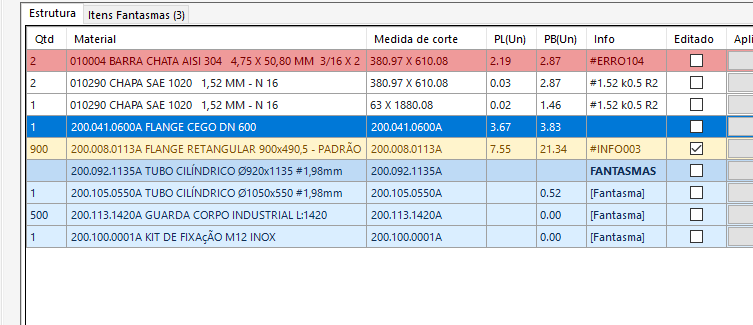
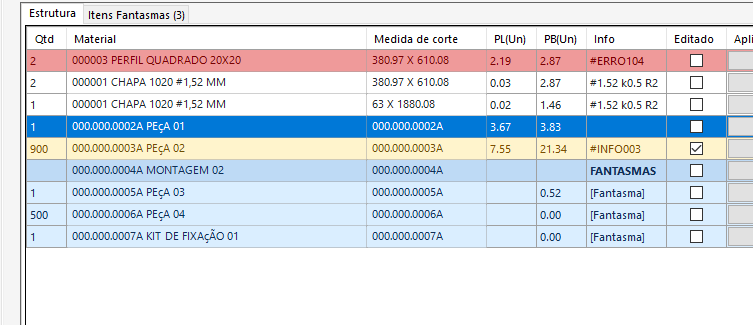
Substitui codigos e denominacoes por valores genericos nas imagens e tabelas

diff --git a/Apresentacao_DWM_Integrador.html b/Apresentacao_DWM_Integrador.html
@@ -1006,12 +1006,12 @@ footer .footer-main{display:grid;grid-template-columns:2fr repeat(3,1fr);gap:40p
                 <tr><th>Código</th><th>Denominação</th><th>Qtd</th><th>Medida de corte</th><th>Peso total (kg)</th></tr>
               </thead>
               <tbody>
-                <tr><td>200.100.0010A</td><td>BASE ESTRUTURAL CILÍNDRICA Ø950 X 450</td><td>1</td><td>—</td><td>25,73</td></tr>
-                <tr><td>200.000.0950A</td><td>FLANGE PADRÃO DN 950</td><td>1</td><td>50,8 X 2985</td><td>8,40</td></tr>
-                <tr><td>010273</td><td>CHAPA SAE 1020 1,98 MM - N 14</td><td>2</td><td>475 X 950</td><td>14,62</td></tr>
-                <tr><td>010273</td><td>CHAPA SAE 1020 1,98 MM - N 14</td><td>2</td><td>30 X 2989,73</td><td>2,90</td></tr>
-                <tr><td>022062</td><td>MOTOR 60,0CV 4P 225S/M B3T 60HZ <span class="chip c-blue">Comercial</span></td><td>1</td><td>—</td><td>392,00</td></tr>
-                <tr><td>200.105.0550A</td><td>GUARDA CORPO L:1420 <span class="chip c-amber">Fantasma</span></td><td>1</td><td>L:1420</td><td>12,40</td></tr>
+                <tr><td>000.000.0001A</td><td>MONTAGEM 01</td><td>1</td><td>—</td><td>25,73</td></tr>
+                <tr><td>000.000.0002A</td><td>PEÇA 01</td><td>1</td><td>50,8 X 2985</td><td>8,40</td></tr>
+                <tr><td>000001</td><td>CHAPA 1020 #1,98 MM</td><td>2</td><td>475 X 950</td><td>14,62</td></tr>
+                <tr><td>000001</td><td>CHAPA 1020 #1,98 MM</td><td>2</td><td>30 X 2989,73</td><td>2,90</td></tr>
+                <tr><td>000003</td><td>ITEM COMERCIAL 01 <span class="chip c-blue">Comercial</span></td><td>1</td><td>—</td><td>392,00</td></tr>
+                <tr><td>000.000.0003A</td><td>PEÇA 02 <span class="chip c-amber">Fantasma</span></td><td>1</td><td>L:1420</td><td>12,40</td></tr>
               </tbody>
             </table>
           </div>
@@ -1026,12 +1026,12 @@ footer .footer-main{display:grid;grid-template-columns:2fr repeat(3,1fr);gap:40p
                 <tr><th>Peça</th><th>Qtd</th><th>Peso (kg)</th><th>Área / comprimento</th></tr>
               </thead>
               <tbody>
-                <tr class="grp-row"><td colspan="4">010273 · CHAPA SAE 1020 1,98 MM - N 14</td></tr>
-                <tr><td>BASE ESTRUTURAL CILÍNDRICA</td><td>2</td><td>14,62</td><td>0,903 m²</td></tr>
-                <tr><td>BASE ESTRUTURAL CILÍNDRICA</td><td>2</td><td>2,90</td><td>0,179 m²</td></tr>
+                <tr class="grp-row"><td colspan="4">000001 · CHAPA 1020 #1,98 MM</td></tr>
+                <tr><td>MONTAGEM 01</td><td>2</td><td>14,62</td><td>0,903 m²</td></tr>
+                <tr><td>MONTAGEM 01</td><td>2</td><td>2,90</td><td>0,179 m²</td></tr>
                 <tr class="sub-row"><td colspan="2">Subtotal</td><td>17,52</td><td>1,082 m²</td></tr>
-                <tr class="grp-row"><td colspan="4">010004 · BARRA CHATA AISI 304 4,75 X 50,80 MM</td></tr>
-                <tr><td>FLANGE PADRÃO DN 950</td><td>1</td><td>8,40</td><td>2,985 m</td></tr>
+                <tr class="grp-row"><td colspan="4">000004 · PERFIL QUADRADO 20X20 MM</td></tr>
+                <tr><td>PEÇA 01</td><td>1</td><td>8,40</td><td>2,985 m</td></tr>
                 <tr class="sub-row"><td colspan="2">Subtotal</td><td>8,40</td><td>2,985 m</td></tr>
               </tbody>
             </table>
@@ -1060,8 +1060,8 @@ footer .footer-main{display:grid;grid-template-columns:2fr repeat(3,1fr);gap:40p
             <pre class="code"><span class="c">&lt;!-- Estrutura XML exportada pelo Vortex para o ERP --&gt;</span>
 <span class="t">&lt;VORTEX</span> <span class="a">versao</span>=<span class="v">"6.0"</span> <span class="a">dataversao</span>=<span class="v">"mai/2026"</span> <span class="a">autor</span>=<span class="v">"projetista"</span><span class="t">&gt;</span>
   <span class="t">&lt;cadastro&gt;</span>
-    <span class="t">&lt;codigo</span> <span class="a">value</span>=<span class="v">"200.100.0010A"</span><span class="t">/&gt;</span>
-    <span class="t">&lt;denominacao</span> <span class="a">value</span>=<span class="v">"BASE ESTRUTURAL CILÍNDRICA Ø950 X 450"</span><span class="t">/&gt;</span>
+    <span class="t">&lt;codigo</span> <span class="a">value</span>=<span class="v">"000.000.0001A"</span><span class="t">/&gt;</span>
+    <span class="t">&lt;denominacao</span> <span class="a">value</span>=<span class="v">"MONTAGEM 01 - Ø950 X 450"</span><span class="t">/&gt;</span>
     <span class="t">&lt;tipo</span> <span class="a">value</span>=<span class="v">"PI"</span><span class="t">/&gt;</span>
     <span class="t">&lt;subgrupo</span> <span class="a">value</span>=<span class="v">"003"</span><span class="t">/&gt;</span>
     <span class="t">&lt;unidade</span> <span class="a">value</span>=<span class="v">"PC"</span><span class="t">/&gt;</span>
@@ -1069,14 +1069,14 @@ footer .footer-main{display:grid;grid-template-columns:2fr repeat(3,1fr);gap:40p
     <span class="t">&lt;pesobruto</span> <span class="a">value</span>=<span class="v">"38.11"</span><span class="t">/&gt;</span>
   <span class="t">&lt;/cadastro&gt;</span>
   <span class="t">&lt;estrutura&gt;</span>
-    <span class="t">&lt;item</span> <span class="a">posicao</span>=<span class="v">"1"</span> <span class="a">quantidade</span>=<span class="v">"2"</span> <span class="a">codigo</span>=<span class="v">"010290"</span> <span class="a">largura</span>=<span class="v">"0.38097"</span> <span class="a">comprimento</span>=<span class="v">"0.61008"</span><span class="t">/&gt;</span>
-    <span class="t">&lt;item</span> <span class="a">posicao</span>=<span class="v">"2"</span> <span class="a">quantidade</span>=<span class="v">"2"</span> <span class="a">codigo</span>=<span class="v">"010290"</span> <span class="a">largura</span>=<span class="v">"0.38097"</span> <span class="a">comprimento</span>=<span class="v">"0.61008"</span><span class="t">/&gt;</span>
-    <span class="t">&lt;item</span> <span class="a">posicao</span>=<span class="v">"3"</span> <span class="a">quantidade</span>=<span class="v">"1"</span> <span class="a">codigo</span>=<span class="v">"010290"</span> <span class="a">largura</span>=<span class="v">"0.063"</span> <span class="a">comprimento</span>=<span class="v">"1.88008"</span><span class="t">/&gt;</span>
-    <span class="t">&lt;item</span> <span class="a">posicao</span>=<span class="v">"4"</span> <span class="a">quantidade</span>=<span class="v">"1"</span> <span class="a">codigo</span>=<span class="v">"113.041.0600A"</span> <span class="a">largura</span>=<span class="v">"1"</span> <span class="a">comprimento</span>=<span class="v">"1"</span><span class="t">/&gt;</span>
-    <span class="t">&lt;item</span> <span class="a">posicao</span>=<span class="v">"5"</span> <span class="a">quantidade</span>=<span class="v">"1"</span> <span class="a">codigo</span>=<span class="v">"113.008.0113A"</span> <span class="a">largura</span>=<span class="v">"1"</span> <span class="a">comprimento</span>=<span class="v">"1"</span><span class="t">/&gt;</span>
-    <span class="t">&lt;item</span> <span class="a">posicao</span>=<span class="v">"6"</span> <span class="a">quantidade</span>=<span class="v">"1"</span> <span class="a">codigo</span>=<span class="v">"114.105.0550A"</span> <span class="a">largura</span>=<span class="v">"1"</span> <span class="a">comprimento</span>=<span class="v">"1"</span><span class="t">/&gt;</span>
-    <span class="t">&lt;item</span> <span class="a">posicao</span>=<span class="v">"7"</span> <span class="a">quantidade</span>=<span class="v">"500"</span> <span class="a">codigo</span>=<span class="v">"104.113.1420A"</span> <span class="a">largura</span>=<span class="v">"1"</span> <span class="a">comprimento</span>=<span class="v">"1"</span><span class="t">/&gt;</span>
-    <span class="t">&lt;item</span> <span class="a">posicao</span>=<span class="v">"8"</span> <span class="a">quantidade</span>=<span class="v">"1"</span> <span class="a">codigo</span>=<span class="v">"101.100.0001A"</span> <span class="a">largura</span>=<span class="v">"1"</span> <span class="a">comprimento</span>=<span class="v">"1"</span><span class="t">/&gt;</span>
+    <span class="t">&lt;item</span> <span class="a">posicao</span>=<span class="v">"1"</span> <span class="a">quantidade</span>=<span class="v">"2"</span> <span class="a">codigo</span>=<span class="v">"000001"</span> <span class="a">largura</span>=<span class="v">"0.38097"</span> <span class="a">comprimento</span>=<span class="v">"0.61008"</span><span class="t">/&gt;</span>
+    <span class="t">&lt;item</span> <span class="a">posicao</span>=<span class="v">"2"</span> <span class="a">quantidade</span>=<span class="v">"2"</span> <span class="a">codigo</span>=<span class="v">"000001"</span> <span class="a">largura</span>=<span class="v">"0.38097"</span> <span class="a">comprimento</span>=<span class="v">"0.61008"</span><span class="t">/&gt;</span>
+    <span class="t">&lt;item</span> <span class="a">posicao</span>=<span class="v">"3"</span> <span class="a">quantidade</span>=<span class="v">"1"</span> <span class="a">codigo</span>=<span class="v">"000001"</span> <span class="a">largura</span>=<span class="v">"0.063"</span> <span class="a">comprimento</span>=<span class="v">"1.88008"</span><span class="t">/&gt;</span>
+    <span class="t">&lt;item</span> <span class="a">posicao</span>=<span class="v">"4"</span> <span class="a">quantidade</span>=<span class="v">"1"</span> <span class="a">codigo</span>=<span class="v">"000.000.0002A"</span> <span class="a">largura</span>=<span class="v">"1"</span> <span class="a">comprimento</span>=<span class="v">"1"</span><span class="t">/&gt;</span>
+    <span class="t">&lt;item</span> <span class="a">posicao</span>=<span class="v">"5"</span> <span class="a">quantidade</span>=<span class="v">"1"</span> <span class="a">codigo</span>=<span class="v">"000.000.0003A"</span> <span class="a">largura</span>=<span class="v">"1"</span> <span class="a">comprimento</span>=<span class="v">"1"</span><span class="t">/&gt;</span>
+    <span class="t">&lt;item</span> <span class="a">posicao</span>=<span class="v">"6"</span> <span class="a">quantidade</span>=<span class="v">"1"</span> <span class="a">codigo</span>=<span class="v">"000.000.0005A"</span> <span class="a">largura</span>=<span class="v">"1"</span> <span class="a">comprimento</span>=<span class="v">"1"</span><span class="t">/&gt;</span>
+    <span class="t">&lt;item</span> <span class="a">posicao</span>=<span class="v">"7"</span> <span class="a">quantidade</span>=<span class="v">"500"</span> <span class="a">codigo</span>=<span class="v">"000.000.0006A"</span> <span class="a">largura</span>=<span class="v">"1"</span> <span class="a">comprimento</span>=<span class="v">"1"</span><span class="t">/&gt;</span>
+    <span class="t">&lt;item</span> <span class="a">posicao</span>=<span class="v">"8"</span> <span class="a">quantidade</span>=<span class="v">"1"</span> <span class="a">codigo</span>=<span class="v">"000.000.0007A"</span> <span class="a">largura</span>=<span class="v">"1"</span> <span class="a">comprimento</span>=<span class="v">"1"</span><span class="t">/&gt;</span>
   <span class="t">&lt;/estrutura&gt;</span>
 <span class="t">&lt;/VORTEX&gt;</span></pre>
           </div>

diff --git a/index.html b/index.html
@@ -1006,12 +1006,12 @@ footer .footer-main{display:grid;grid-template-columns:2fr repeat(3,1fr);gap:40p
                 <tr><th>Código</th><th>Denominação</th><th>Qtd</th><th>Medida de corte</th><th>Peso total (kg)</th></tr>
               </thead>
               <tbody>
-                <tr><td>200.100.0010A</td><td>BASE ESTRUTURAL CILÍNDRICA Ø950 X 450</td><td>1</td><td>—</td><td>25,73</td></tr>
-                <tr><td>200.000.0950A</td><td>FLANGE PADRÃO DN 950</td><td>1</td><td>50,8 X 2985</td><td>8,40</td></tr>
-                <tr><td>010273</td><td>CHAPA SAE 1020 1,98 MM - N 14</td><td>2</td><td>475 X 950</td><td>14,62</td></tr>
-                <tr><td>010273</td><td>CHAPA SAE 1020 1,98 MM - N 14</td><td>2</td><td>30 X 2989,73</td><td>2,90</td></tr>
-                <tr><td>022062</td><td>MOTOR 60,0CV 4P 225S/M B3T 60HZ <span class="chip c-blue">Comercial</span></td><td>1</td><td>—</td><td>392,00</td></tr>
-                <tr><td>200.105.0550A</td><td>GUARDA CORPO L:1420 <span class="chip c-amber">Fantasma</span></td><td>1</td><td>L:1420</td><td>12,40</td></tr>
+                <tr><td>000.000.0001A</td><td>MONTAGEM 01</td><td>1</td><td>—</td><td>25,73</td></tr>
+                <tr><td>000.000.0002A</td><td>PEÇA 01</td><td>1</td><td>50,8 X 2985</td><td>8,40</td></tr>
+                <tr><td>000001</td><td>CHAPA 1020 #1,98 MM</td><td>2</td><td>475 X 950</td><td>14,62</td></tr>
+                <tr><td>000001</td><td>CHAPA 1020 #1,98 MM</td><td>2</td><td>30 X 2989,73</td><td>2,90</td></tr>
+                <tr><td>000003</td><td>ITEM COMERCIAL 01 <span class="chip c-blue">Comercial</span></td><td>1</td><td>—</td><td>392,00</td></tr>
+                <tr><td>000.000.0003A</td><td>PEÇA 02 <span class="chip c-amber">Fantasma</span></td><td>1</td><td>L:1420</td><td>12,40</td></tr>
               </tbody>
             </table>
           </div>
@@ -1026,12 +1026,12 @@ footer .footer-main{display:grid;grid-template-columns:2fr repeat(3,1fr);gap:40p
                 <tr><th>Peça</th><th>Qtd</th><th>Peso (kg)</th><th>Área / comprimento</th></tr>
               </thead>
               <tbody>
-                <tr class="grp-row"><td colspan="4">010273 · CHAPA SAE 1020 1,98 MM - N 14</td></tr>
-                <tr><td>BASE ESTRUTURAL CILÍNDRICA</td><td>2</td><td>14,62</td><td>0,903 m²</td></tr>
-                <tr><td>BASE ESTRUTURAL CILÍNDRICA</td><td>2</td><td>2,90</td><td>0,179 m²</td></tr>
+                <tr class="grp-row"><td colspan="4">000001 · CHAPA 1020 #1,98 MM</td></tr>
+                <tr><td>MONTAGEM 01</td><td>2</td><td>14,62</td><td>0,903 m²</td></tr>
+                <tr><td>MONTAGEM 01</td><td>2</td><td>2,90</td><td>0,179 m²</td></tr>
                 <tr class="sub-row"><td colspan="2">Subtotal</td><td>17,52</td><td>1,082 m²</td></tr>
-                <tr class="grp-row"><td colspan="4">010004 · BARRA CHATA AISI 304 4,75 X 50,80 MM</td></tr>
-                <tr><td>FLANGE PADRÃO DN 950</td><td>1</td><td>8,40</td><td>2,985 m</td></tr>
+                <tr class="grp-row"><td colspan="4">000004 · PERFIL QUADRADO 20X20 MM</td></tr>
+                <tr><td>PEÇA 01</td><td>1</td><td>8,40</td><td>2,985 m</td></tr>
                 <tr class="sub-row"><td colspan="2">Subtotal</td><td>8,40</td><td>2,985 m</td></tr>
               </tbody>
             </table>
@@ -1060,8 +1060,8 @@ footer .footer-main{display:grid;grid-template-columns:2fr repeat(3,1fr);gap:40p
             <pre class="code"><span class="c">&lt;!-- Estrutura XML exportada pelo Vortex para o ERP --&gt;</span>
 <span class="t">&lt;VORTEX</span> <span class="a">versao</span>=<span class="v">"6.0"</span> <span class="a">dataversao</span>=<span class="v">"mai/2026"</span> <span class="a">autor</span>=<span class="v">"projetista"</span><span class="t">&gt;</span>
   <span class="t">&lt;cadastro&gt;</span>
-    <span class="t">&lt;codigo</span> <span class="a">value</span>=<span class="v">"200.100.0010A"</span><span class="t">/&gt;</span>
-    <span class="t">&lt;denominacao</span> <span class="a">value</span>=<span class="v">"BASE ESTRUTURAL CILÍNDRICA Ø950 X 450"</span><span class="t">/&gt;</span>
+    <span class="t">&lt;codigo</span> <span class="a">value</span>=<span class="v">"000.000.0001A"</span><span class="t">/&gt;</span>
+    <span class="t">&lt;denominacao</span> <span class="a">value</span>=<span class="v">"MONTAGEM 01 - Ø950 X 450"</span><span class="t">/&gt;</span>
     <span class="t">&lt;tipo</span> <span class="a">value</span>=<span class="v">"PI"</span><span class="t">/&gt;</span>
     <span class="t">&lt;subgrupo</span> <span class="a">value</span>=<span class="v">"003"</span><span class="t">/&gt;</span>
     <span class="t">&lt;unidade</span> <span class="a">value</span>=<span class="v">"PC"</span><span class="t">/&gt;</span>
@@ -1069,14 +1069,14 @@ footer .footer-main{display:grid;grid-template-columns:2fr repeat(3,1fr);gap:40p
     <span class="t">&lt;pesobruto</span> <span class="a">value</span>=<span class="v">"38.11"</span><span class="t">/&gt;</span>
   <span class="t">&lt;/cadastro&gt;</span>
   <span class="t">&lt;estrutura&gt;</span>
-    <span class="t">&lt;item</span> <span class="a">posicao</span>=<span class="v">"1"</span> <span class="a">quantidade</span>=<span class="v">"2"</span> <span class="a">codigo</span>=<span class="v">"010290"</span> <span class="a">largura</span>=<span class="v">"0.38097"</span> <span class="a">comprimento</span>=<span class="v">"0.61008"</span><span class="t">/&gt;</span>
-    <span class="t">&lt;item</span> <span class="a">posicao</span>=<span class="v">"2"</span> <span class="a">quantidade</span>=<span class="v">"2"</span> <span class="a">codigo</span>=<span class="v">"010290"</span> <span class="a">largura</span>=<span class="v">"0.38097"</span> <span class="a">comprimento</span>=<span class="v">"0.61008"</span><span class="t">/&gt;</span>
-    <span class="t">&lt;item</span> <span class="a">posicao</span>=<span class="v">"3"</span> <span class="a">quantidade</span>=<span class="v">"1"</span> <span class="a">codigo</span>=<span class="v">"010290"</span> <span class="a">largura</span>=<span class="v">"0.063"</span> <span class="a">comprimento</span>=<span class="v">"1.88008"</span><span class="t">/&gt;</span>
-    <span class="t">&lt;item</span> <span class="a">posicao</span>=<span class="v">"4"</span> <span class="a">quantidade</span>=<span class="v">"1"</span> <span class="a">codigo</span>=<span class="v">"113.041.0600A"</span> <span class="a">largura</span>=<span class="v">"1"</span> <span class="a">comprimento</span>=<span class="v">"1"</span><span class="t">/&gt;</span>
-    <span class="t">&lt;item</span> <span class="a">posicao</span>=<span class="v">"5"</span> <span class="a">quantidade</span>=<span class="v">"1"</span> <span class="a">codigo</span>=<span class="v">"113.008.0113A"</span> <span class="a">largura</span>=<span class="v">"1"</span> <span class="a">comprimento</span>=<span class="v">"1"</span><span class="t">/&gt;</span>
-    <span class="t">&lt;item</span> <span class="a">posicao</span>=<span class="v">"6"</span> <span class="a">quantidade</span>=<span class="v">"1"</span> <span class="a">codigo</span>=<span class="v">"114.105.0550A"</span> <span class="a">largura</span>=<span class="v">"1"</span> <span class="a">comprimento</span>=<span class="v">"1"</span><span class="t">/&gt;</span>
-    <span class="t">&lt;item</span> <span class="a">posicao</span>=<span class="v">"7"</span> <span class="a">quantidade</span>=<span class="v">"500"</span> <span class="a">codigo</span>=<span class="v">"104.113.1420A"</span> <span class="a">largura</span>=<span class="v">"1"</span> <span class="a">comprimento</span>=<span class="v">"1"</span><span class="t">/&gt;</span>
-    <span class="t">&lt;item</span> <span class="a">posicao</span>=<span class="v">"8"</span> <span class="a">quantidade</span>=<span class="v">"1"</span> <span class="a">codigo</span>=<span class="v">"101.100.0001A"</span> <span class="a">largura</span>=<span class="v">"1"</span> <span class="a">comprimento</span>=<span class="v">"1"</span><span class="t">/&gt;</span>
+    <span class="t">&lt;item</span> <span class="a">posicao</span>=<span class="v">"1"</span> <span class="a">quantidade</span>=<span class="v">"2"</span> <span class="a">codigo</span>=<span class="v">"000001"</span> <span class="a">largura</span>=<span class="v">"0.38097"</span> <span class="a">comprimento</span>=<span class="v">"0.61008"</span><span class="t">/&gt;</span>
+    <span class="t">&lt;item</span> <span class="a">posicao</span>=<span class="v">"2"</span> <span class="a">quantidade</span>=<span class="v">"2"</span> <span class="a">codigo</span>=<span class="v">"000001"</span> <span class="a">largura</span>=<span class="v">"0.38097"</span> <span class="a">comprimento</span>=<span class="v">"0.61008"</span><span class="t">/&gt;</span>
+    <span class="t">&lt;item</span> <span class="a">posicao</span>=<span class="v">"3"</span> <span class="a">quantidade</span>=<span class="v">"1"</span> <span class="a">codigo</span>=<span class="v">"000001"</span> <span class="a">largura</span>=<span class="v">"0.063"</span> <span class="a">comprimento</span>=<span class="v">"1.88008"</span><span class="t">/&gt;</span>
+    <span class="t">&lt;item</span> <span class="a">posicao</span>=<span class="v">"4"</span> <span class="a">quantidade</span>=<span class="v">"1"</span> <span class="a">codigo</span>=<span class="v">"000.000.0002A"</span> <span class="a">largura</span>=<span class="v">"1"</span> <span class="a">comprimento</span>=<span class="v">"1"</span><span class="t">/&gt;</span>
+    <span class="t">&lt;item</span> <span class="a">posicao</span>=<span class="v">"5"</span> <span class="a">quantidade</span>=<span class="v">"1"</span> <span class="a">codigo</span>=<span class="v">"000.000.0003A"</span> <span class="a">largura</span>=<span class="v">"1"</span> <span class="a">comprimento</span>=<span class="v">"1"</span><span class="t">/&gt;</span>
+    <span class="t">&lt;item</span> <span class="a">posicao</span>=<span class="v">"6"</span> <span class="a">quantidade</span>=<span class="v">"1"</span> <span class="a">codigo</span>=<span class="v">"000.000.0005A"</span> <span class="a">largura</span>=<span class="v">"1"</span> <span class="a">comprimento</span>=<span class="v">"1"</span><span class="t">/&gt;</span>
+    <span class="t">&lt;item</span> <span class="a">posicao</span>=<span class="v">"7"</span> <span class="a">quantidade</span>=<span class="v">"500"</span> <span class="a">codigo</span>=<span class="v">"000.000.0006A"</span> <span class="a">largura</span>=<span class="v">"1"</span> <span class="a">comprimento</span>=<span class="v">"1"</span><span class="t">/&gt;</span>
+    <span class="t">&lt;item</span> <span class="a">posicao</span>=<span class="v">"8"</span> <span class="a">quantidade</span>=<span class="v">"1"</span> <span class="a">codigo</span>=<span class="v">"000.000.0007A"</span> <span class="a">largura</span>=<span class="v">"1"</span> <span class="a">comprimento</span>=<span class="v">"1"</span><span class="t">/&gt;</span>
   <span class="t">&lt;/estrutura&gt;</span>
 <span class="t">&lt;/VORTEX&gt;</span></pre>
           </div>
